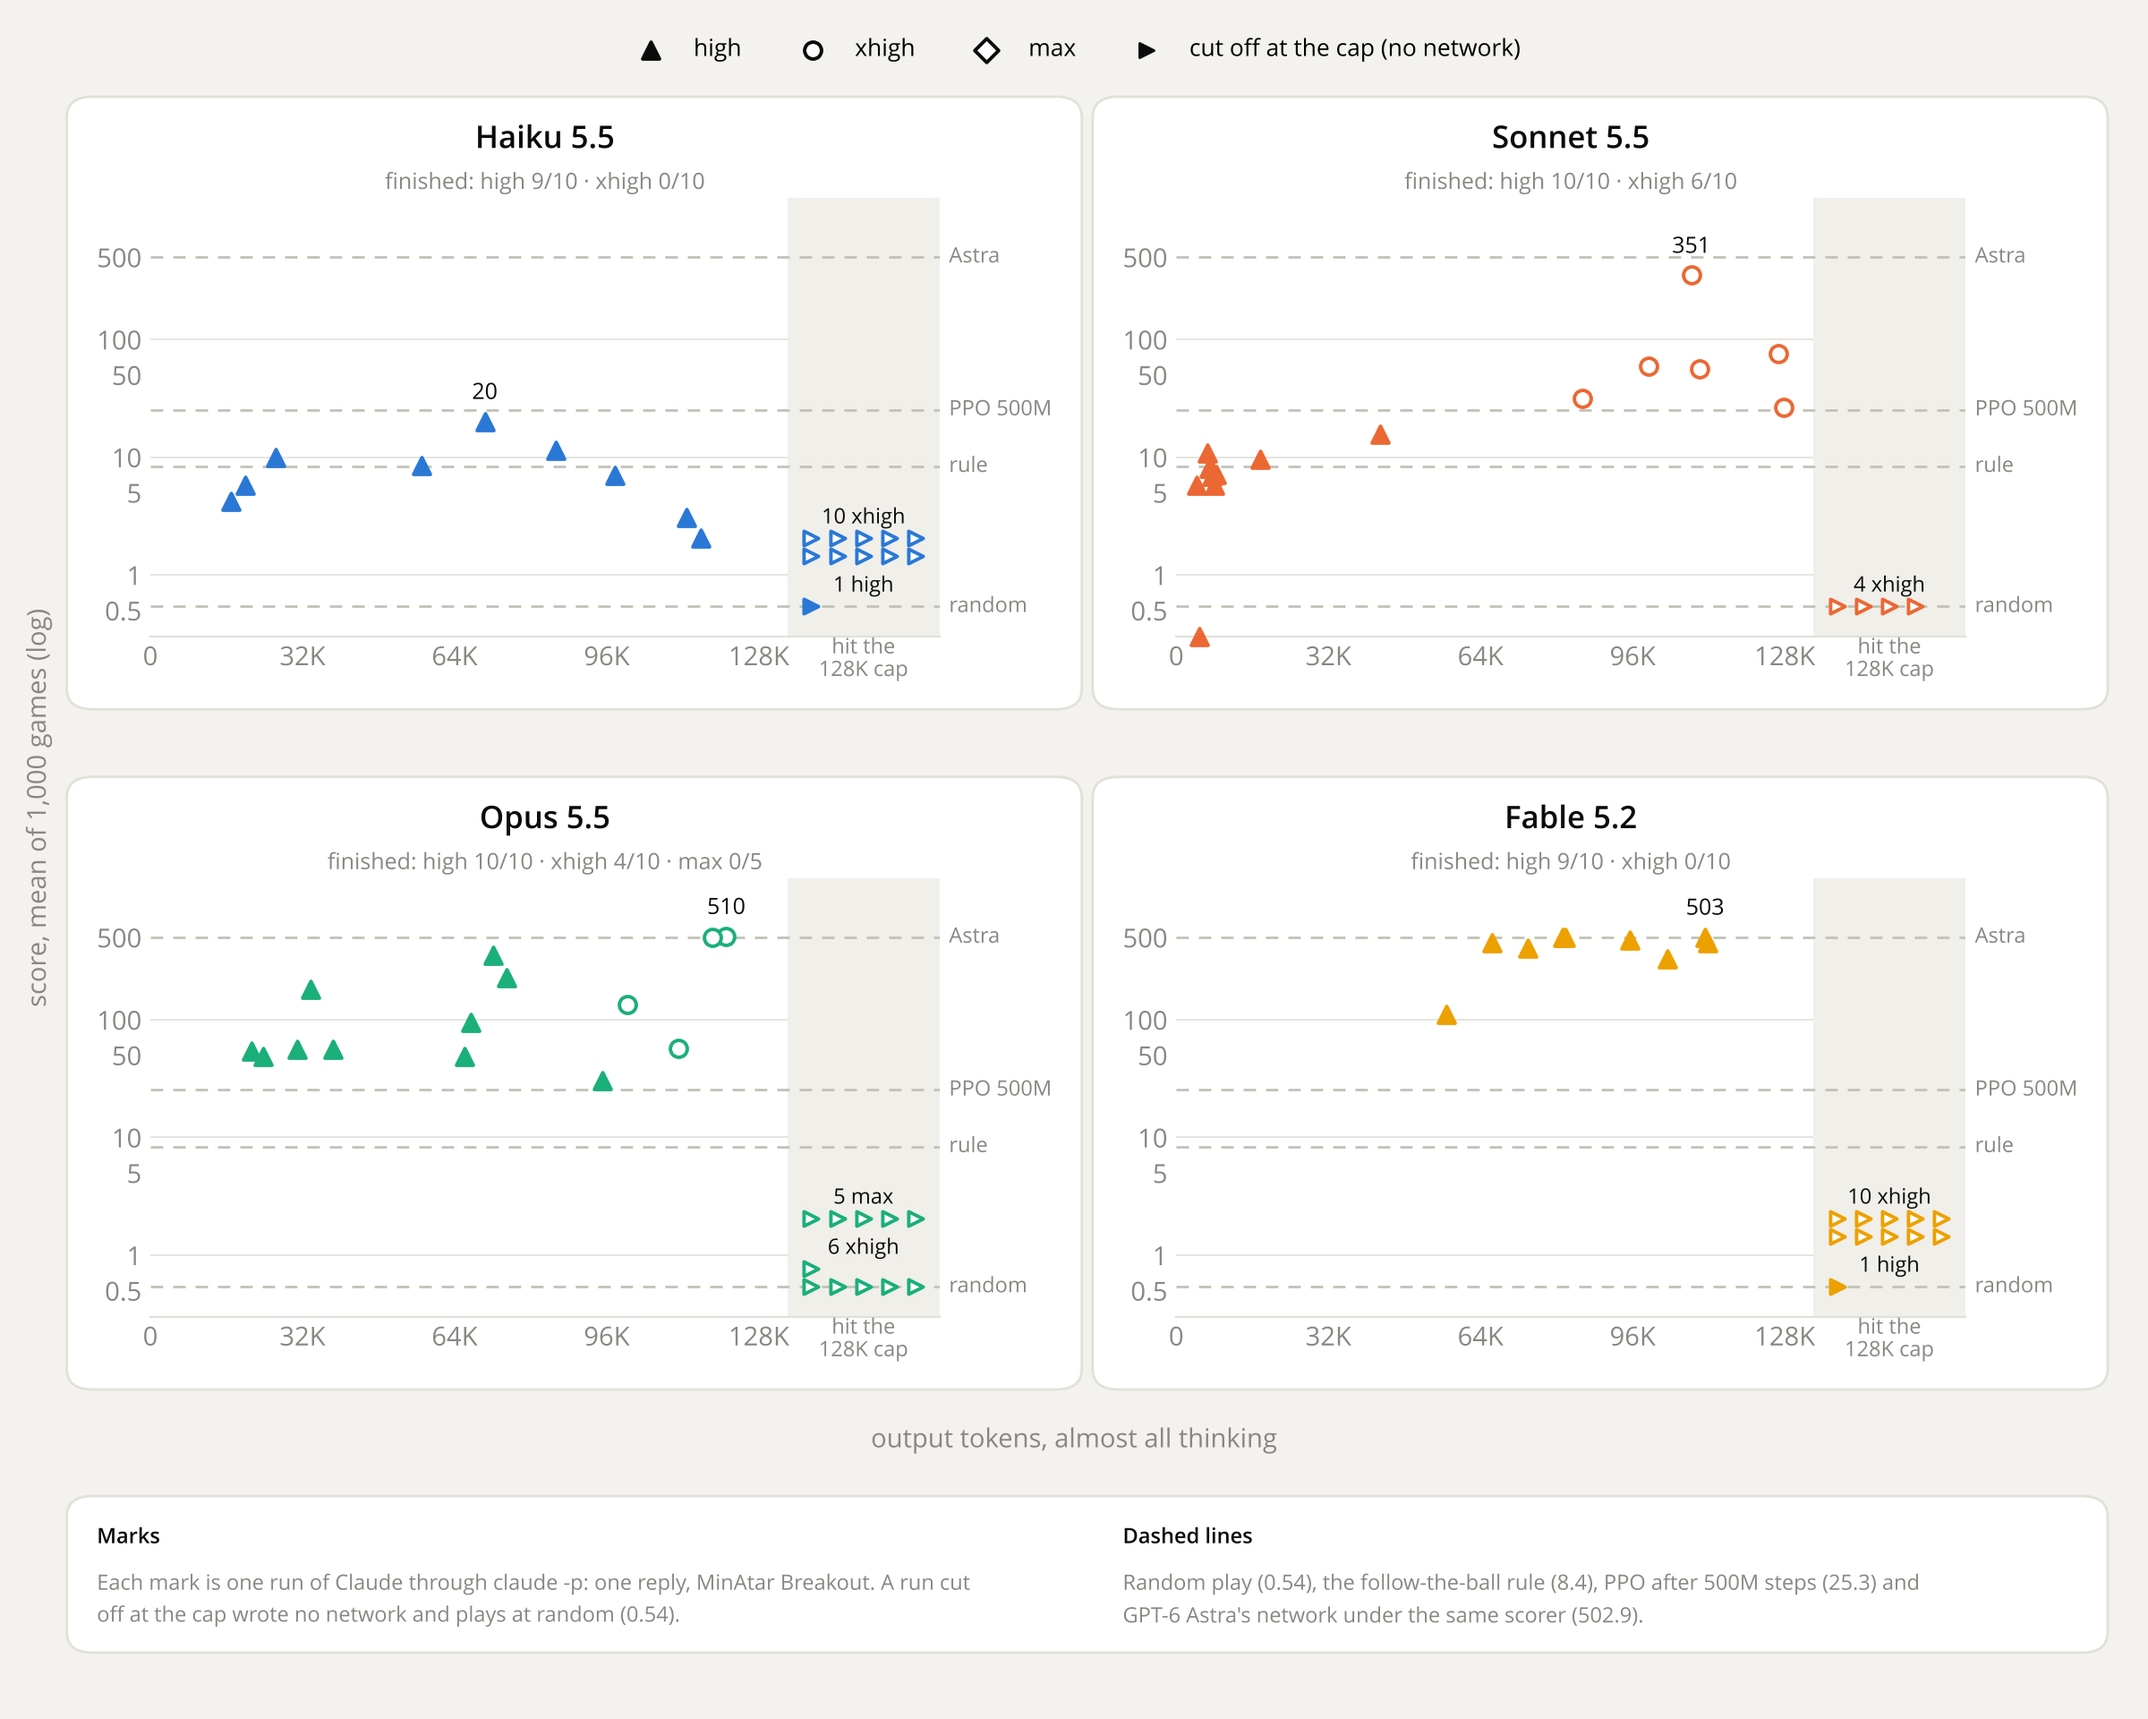
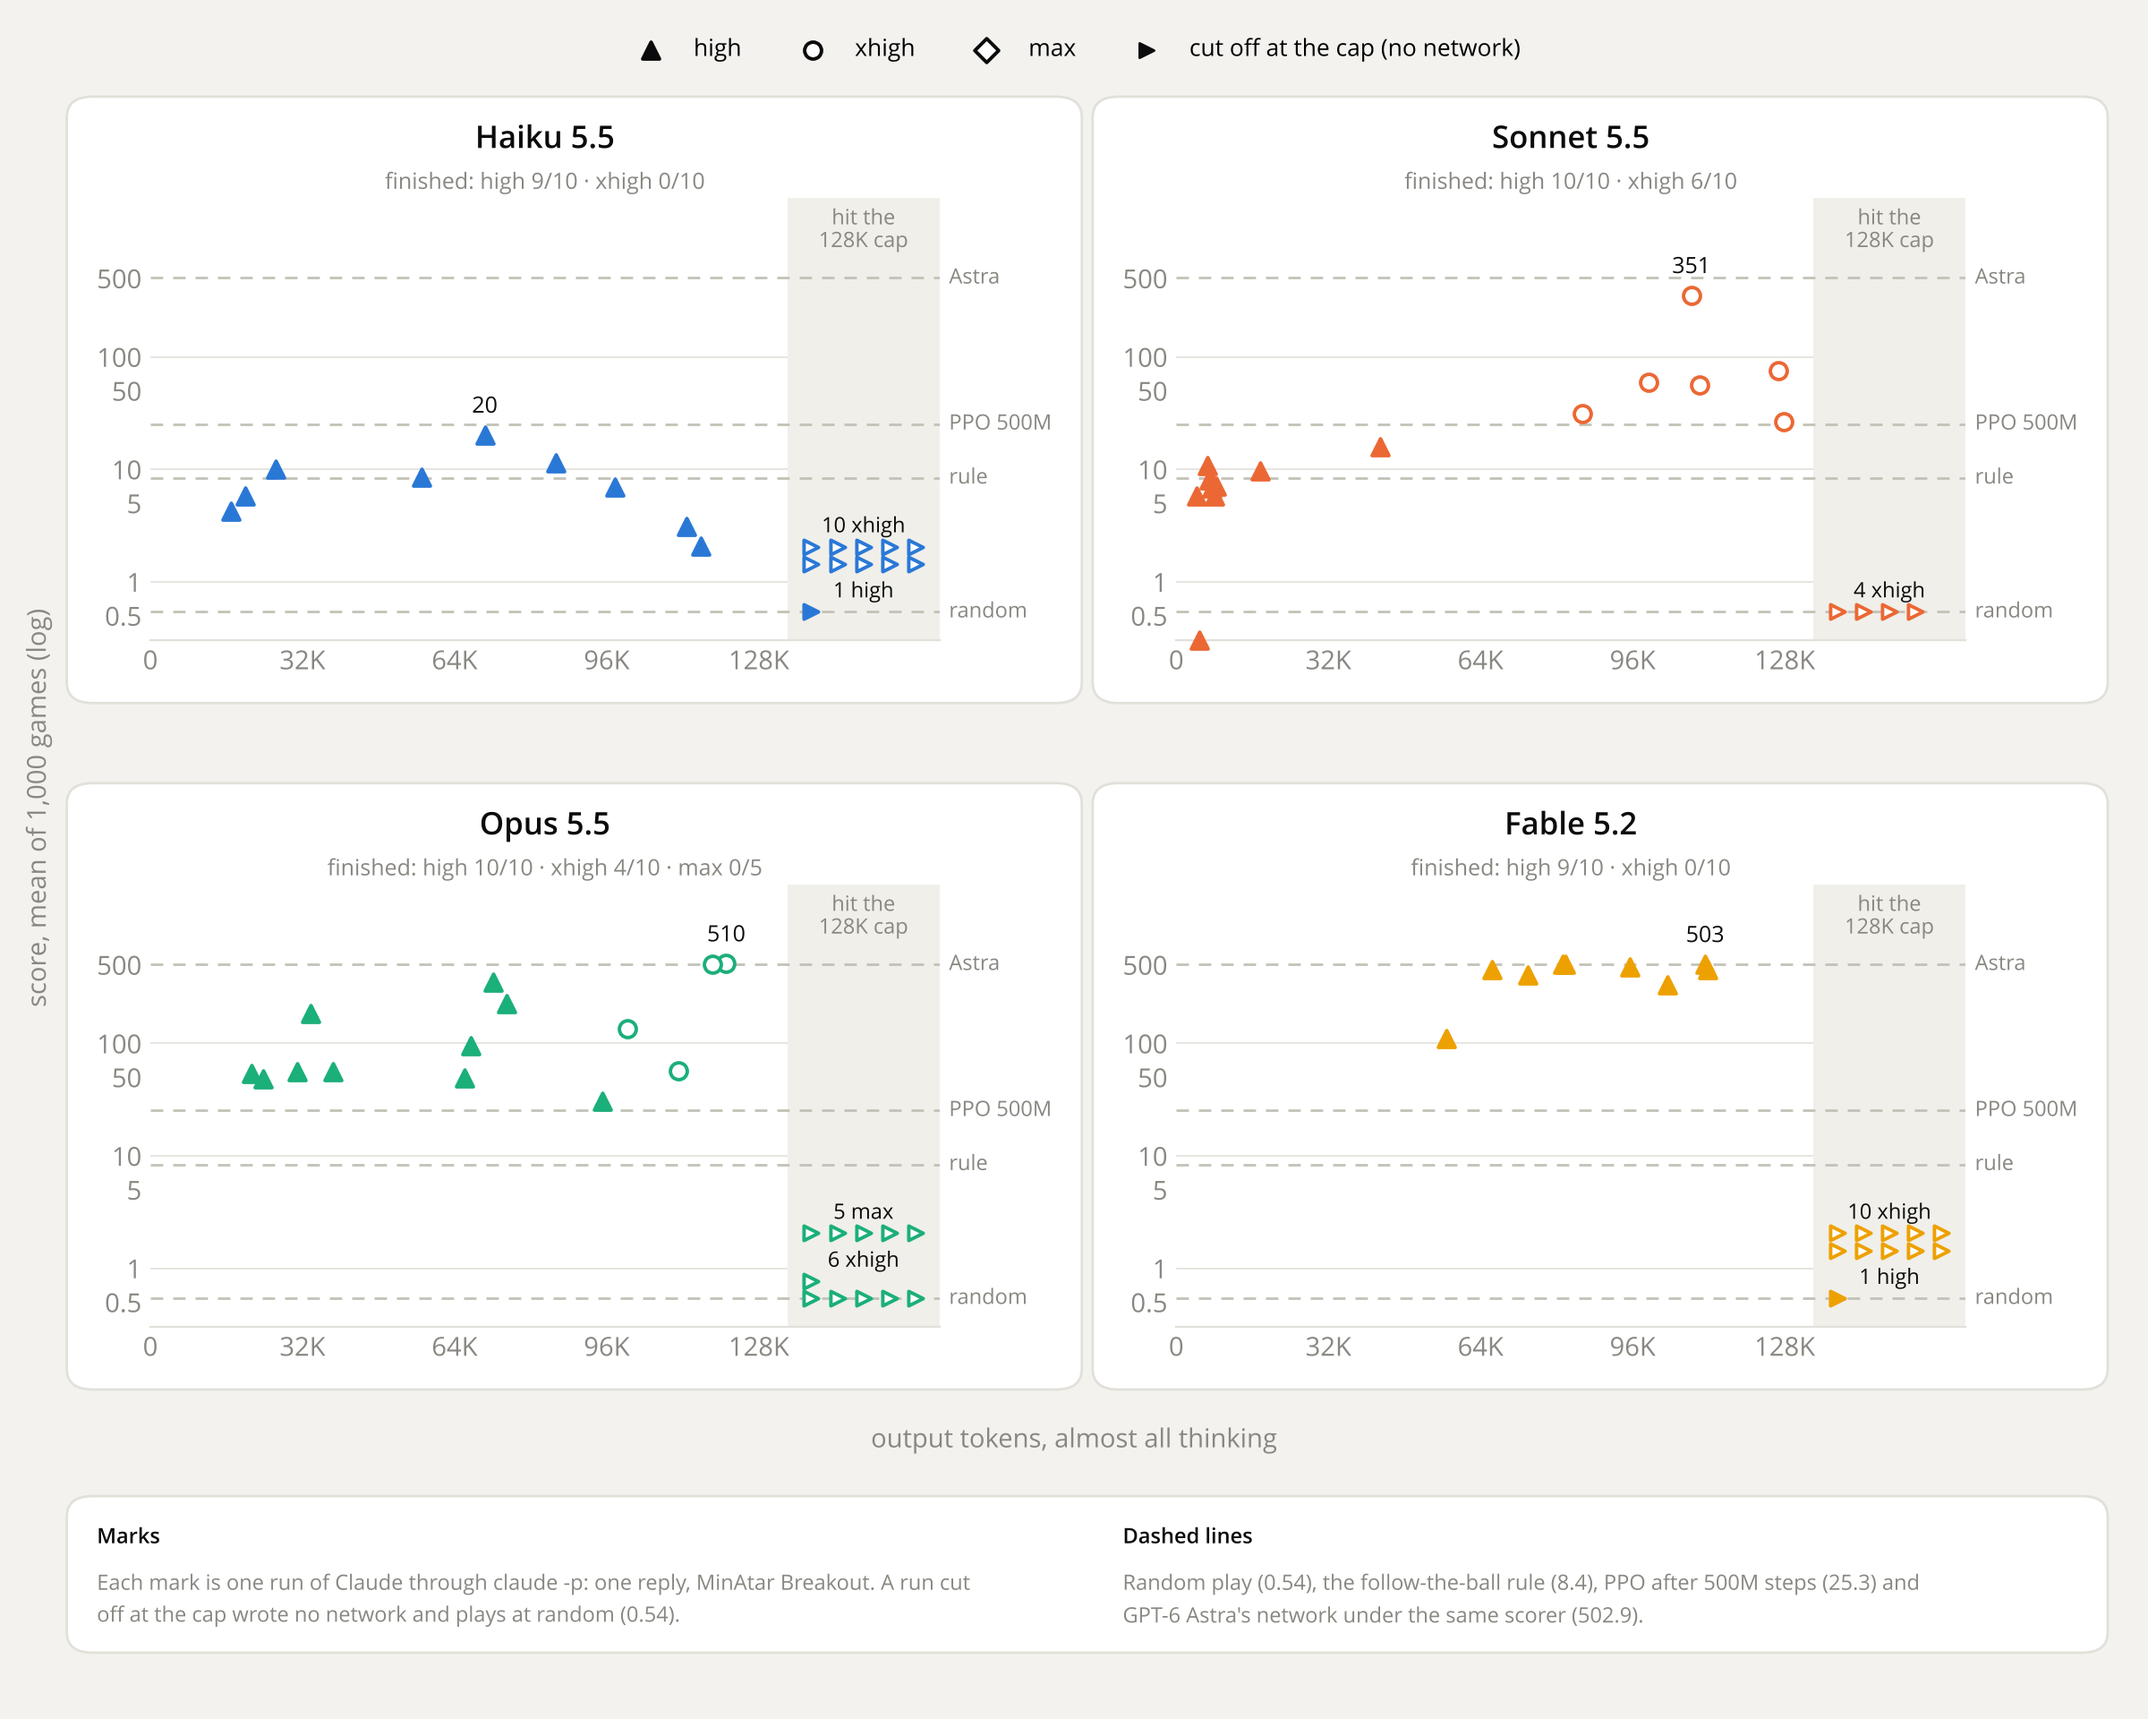
Figure 1: cap label at the top of the grey column, clear of the ticks and the Astra line

diff --git a/viz.py b/viz.py
@@ -128,13 +128,13 @@ def dots(out):
         for side in ("top", "right", "left"):
             ax.spines[side].set_visible(False)
         ax.set_yscale("log")
-        ax.set_ylim(0.3, 1600)  # headroom so the best-score label clears the subtitle
+        ax.set_ylim(0.3, 2600)  # headroom so the best-score label clears the subtitle
         ax.set_xlim(0, CAP1)
         for v in (1, 10, 100):
             ax.axhline(v, color=GRID, lw=0.6, zorder=0)
         ax.axvspan(CAP0, CAP1, color="#f0efea", zorder=0, lw=0)
-        ax.text((CAP0 + CAP1) / 2, 0.3, "hit the\n128K cap", ha="center", va="top", fontsize=8.5, color=MUTED,
-                transform=ax.transData)
+        ax.text((CAP0 + CAP1) / 2, 2300, "hit the\n128K cap", ha="center", va="top", fontsize=8.5, color=MUTED,
+                linespacing=1.2)  # top of the grey column: empty, and clear of the 128K tick below
         for v, name in REFS:
             ax.axhline(v, color=TRAIL, lw=1, ls=(0, (5, 4)), zorder=1)
             ax.text(CAP1 + 2, v, name, va="center", fontsize=8.5, color=MUTED, clip_on=False)
@@ -172,7 +172,7 @@ def dots(out):
         axs[0, 0].scatter([], [], marker=mk, edgecolors=INK, facecolors=INK if f else CARD, s=46, linewidths=1.4,
                           label=e)
     axs[0, 0].scatter([], [], marker=">", edgecolors=INK, facecolors=INK, s=34, label="cut off at the cap (no network)")
-    fig.subplots_adjust(left=0.07, right=0.915, top=0.885, bottom=0.234)
+    fig.subplots_adjust(left=0.07, right=0.915, top=0.885, bottom=0.228)
     # cards: one rounded white box per panel, the same overhang on every panel (the largest one needed)
     fig.canvas.draw()
     inv, rend = fig.transFigure.inverted(), fig.canvas.get_renderer()
